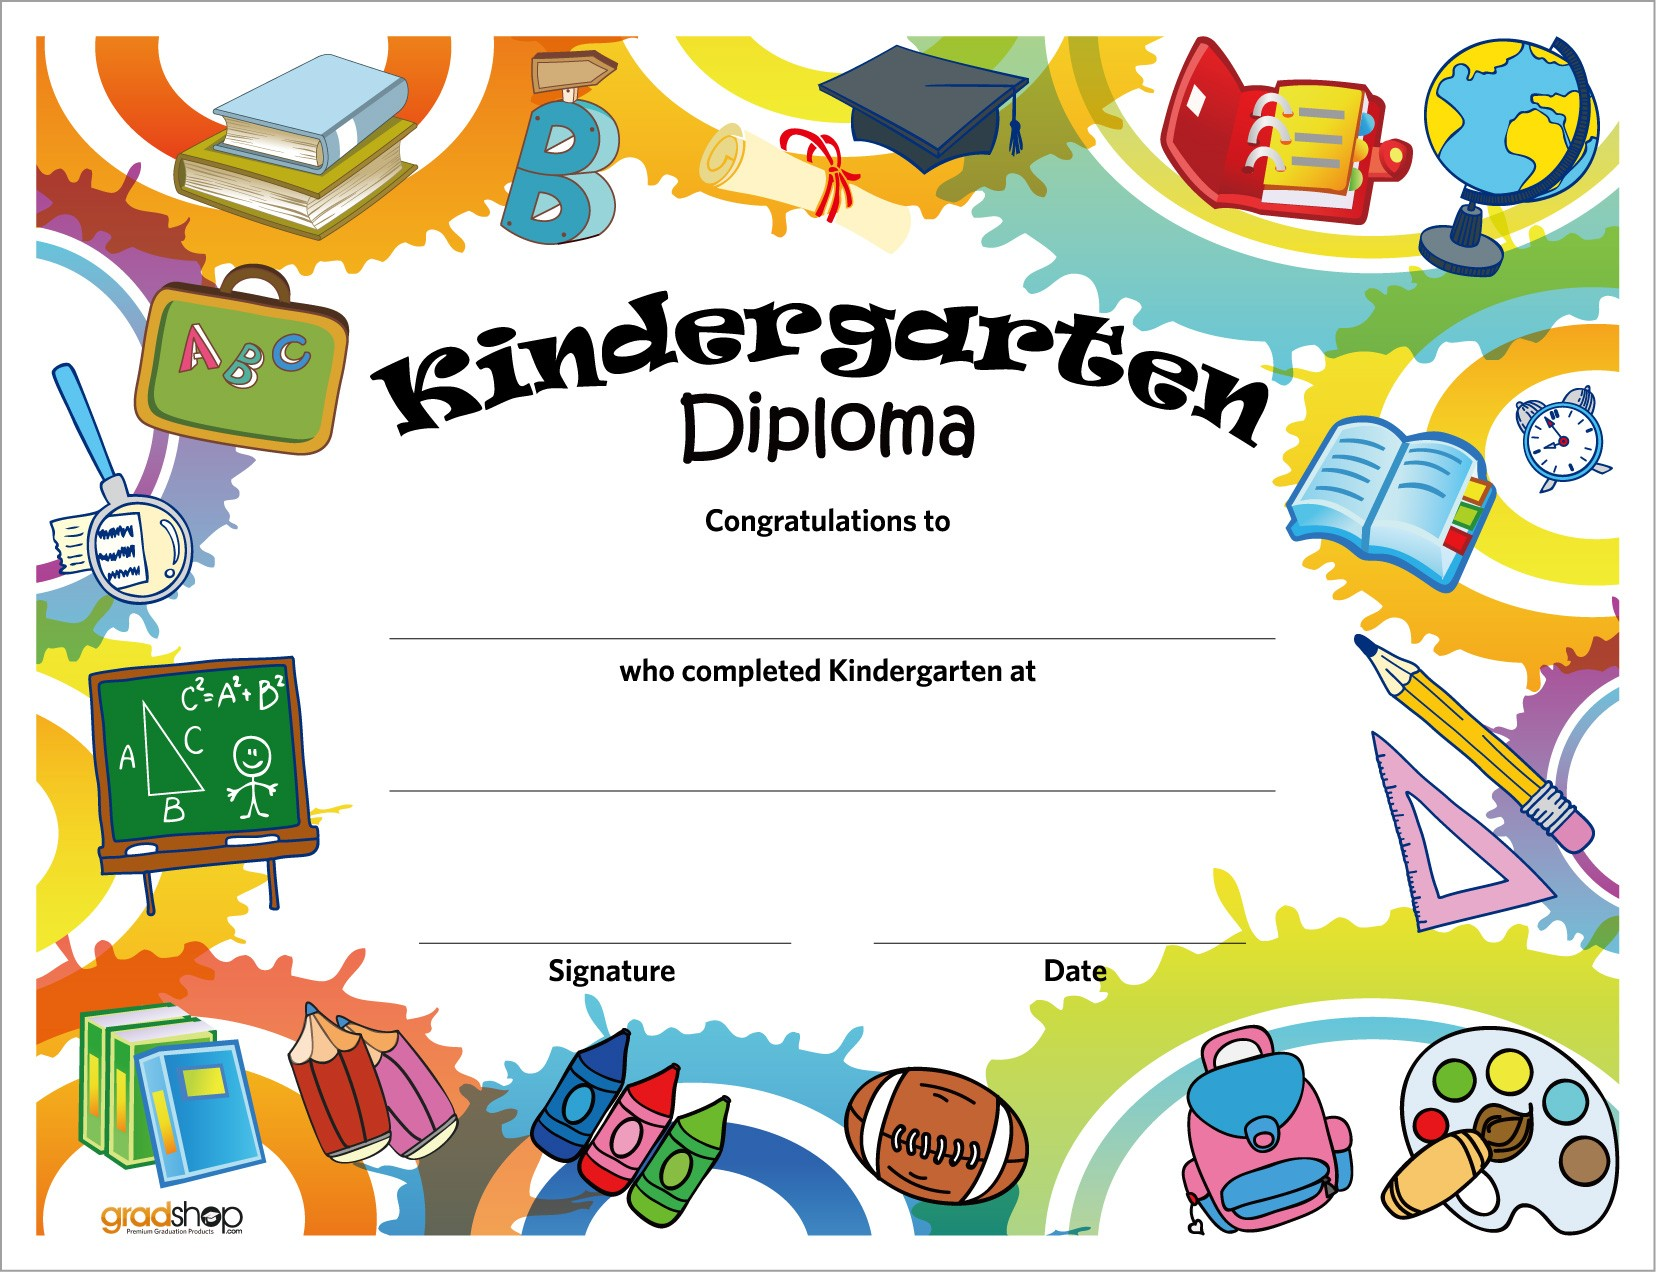
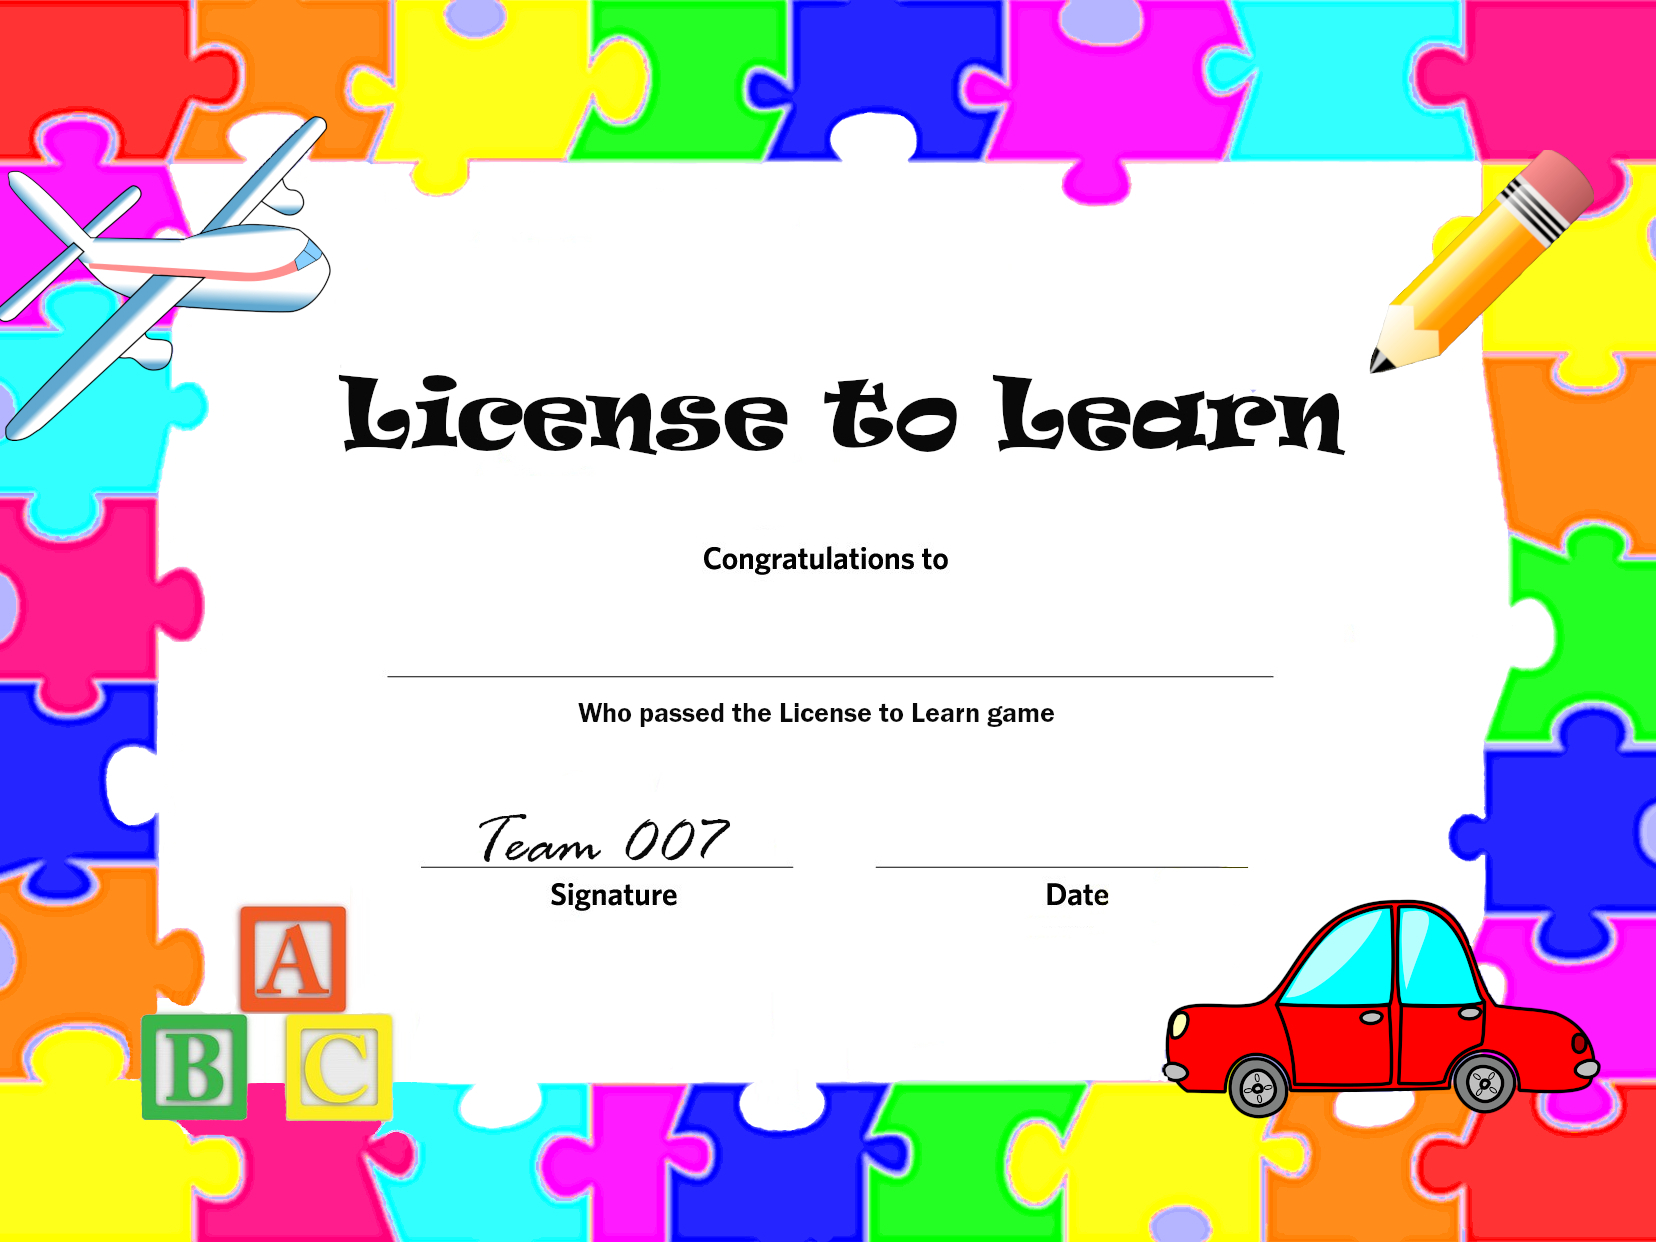
Added some style elements as well as the new certificate

diff --git a/L2L Sources/licensetolearn.html b/L2L Sources/licensetolearn.html
@@ -6,29 +6,42 @@
   </head>
 
   <body>
-    <center>
-    <h1 class="title">Welcome to License To Learn!</h1>
-    <h2 class="title">License To Learn is a learning game where children can take
-                      <br>fun educational tests on a multitude of subjects!</h2>
-    <br>
-    <br>
+	<div id="container">
+		<header>
+			<img src="logo.png" alt="License to Learn">
+			<br><br>
+			<nav>
+				<a href="licensetolearn.html" class="btn">Home Page</a>
 
-    <h2 class="title">Our subjects consist of science and math presented in the form of <br>
-                          matching games, multiple choice, and memory.</h2>
-    <br>
-    <br>
+			</nav>
+		</header>
+		<div id="sectionOne">
+			<center>
+			<h1 class="title">Welcome to License To Learn!</h1>
+			<h2 class="title">License To Learn is a learning game where children can take
+							  <br>fun educational tests on a multitude of subjects!</h2>
+			<br>
+			<br>
 
-    <a href="http://l2l.klegocraft.com/licensetolearn/test.html" target="_blank">
+			<h2 class="title">Our subjects consist of science and math presented in the form of <br>
+								  matching games, multiple choice, and memory.</h2>
+			<br>
+			<br>
 
-    <button class="btn">Start Quiz!</button>
-    </a>
+			<a href="http://l2l.klegocraft.com/licensetolearn/test.html" target="_blank">
 
-    <div id="phImage">
-      <!image from google>
-      <img src="schoolclear.png">
-    </div>
+			<button class="btn">Start Quiz!</button>
+			</a>
+
+			<div id="phImage">
+			  <!image from google>
+			  <img src="schoolclear.png">
+			</div>
+		</div>
+
+	</div>
   </body>
-
+  
   <div id="end">
     KV, JC, WS, MS, JA
   </div>

diff --git a/L2L Sources/l2l.css b/L2L Sources/l2l.css
@@ -1,4 +1,5 @@
 body {
+  background-image: url("background.jpg");
   background-color:#fff9a8;
   font-family:"Calibri";
 }
@@ -77,8 +78,53 @@ body {
 .text-wrapper{
 	width: 100%;
 	position: relative;
-	margin-top: -42%;
+	margin-top: -39.5%;
 }
 .text-wrapper h1{
 	text-align: center;
 }
+#container{
+	background-color: #fff9a8;
+	border-style: ridge;
+	border-color: #808000;
+	border-width: 3px;
+	height: 1325px;
+	width: 1075px;
+	margin: 0 auto;
+	padding: 30px;
+}
+header{ 
+	background-color: #145C07;
+	border-style: ridge;
+	border-color: #808000;
+	border-width: 3px;
+	height: 175px;
+	width: 1070px;
+	margin-top: 0;
+	margin-bottom: 30px;
+}
+footer{
+	border-style: ridge;
+	border-color: #808000;
+	border-width: 3px;
+	height: 175px;
+	width: 1070px;
+}
+span{
+	color:red;
+}
+
+.btn:hover {
+    color: blue;
+}
+
+#sectionOne{
+	border-style: ridge;
+	border-color: #808000;
+	border-width: 3px;
+	height: 1105px;
+	width: 1070px;
+	margin-bottom: 30px;
+	float: right;
+}
+

diff --git a/L2L Sources/Print_Certificate.html b/L2L Sources/Print_Certificate.html
@@ -8,18 +8,25 @@
   </head>
 
   <body>
-
-	
-    <button onclick="print_certificate('license_to_learn')" class="btn">Print Certificate</button>
-    
-
- <div id="license_to_learn">
-    <img src= "License_Cert.jpg" width="95%" height="auto" > 
-	<div class ="text-wrapper">
-		<h1>Bond, James Bond</h1>
+	<div id="container">
+		<header>
+			<img src="logo.png" alt="License to Learn">
+			<br><br>
+			<nav>
+				<a href="licensetolearn.html" class="btn">Home Page</a>
+			</nav>
+		</header>
+		<div id="sectionOne">
+			<button onclick="print_certificate('license_to_learn')" class="btn">Print Certificate</button>
+		
+			<div id="license_to_learn">
+				<img src= "License_Cert.jpg" width="100%" height="auto" > 
+				<div class ="text-wrapper">
+					<h1>Bond, James Bond</h1>
+				</div>
+			</div>
+		</div>
 	</div>
-</div>
-
   </body>
   <div id="end">
     KV, JC, WS, MS, JA

diff --git a/L2L Sources/test.html b/L2L Sources/test.html
@@ -8,6 +8,15 @@
   </head>
 
   <body>
+  <div id="container">
+  		<header>
+			<img src="logo.png" alt="License to Learn">
+			<br><br>
+			<nav>
+				<a href="licensetolearn.html" class="btn">Home Page</a>
+			</nav>
+		</header>
+		<div id="sectionOne">
     <center>
     <br>
 
@@ -119,8 +128,9 @@
       </div>
 
     </div>
+	</div>
 
-
+	</div>
   </body>
   <div id="end">
     KV, JC, WS, MS, JA
